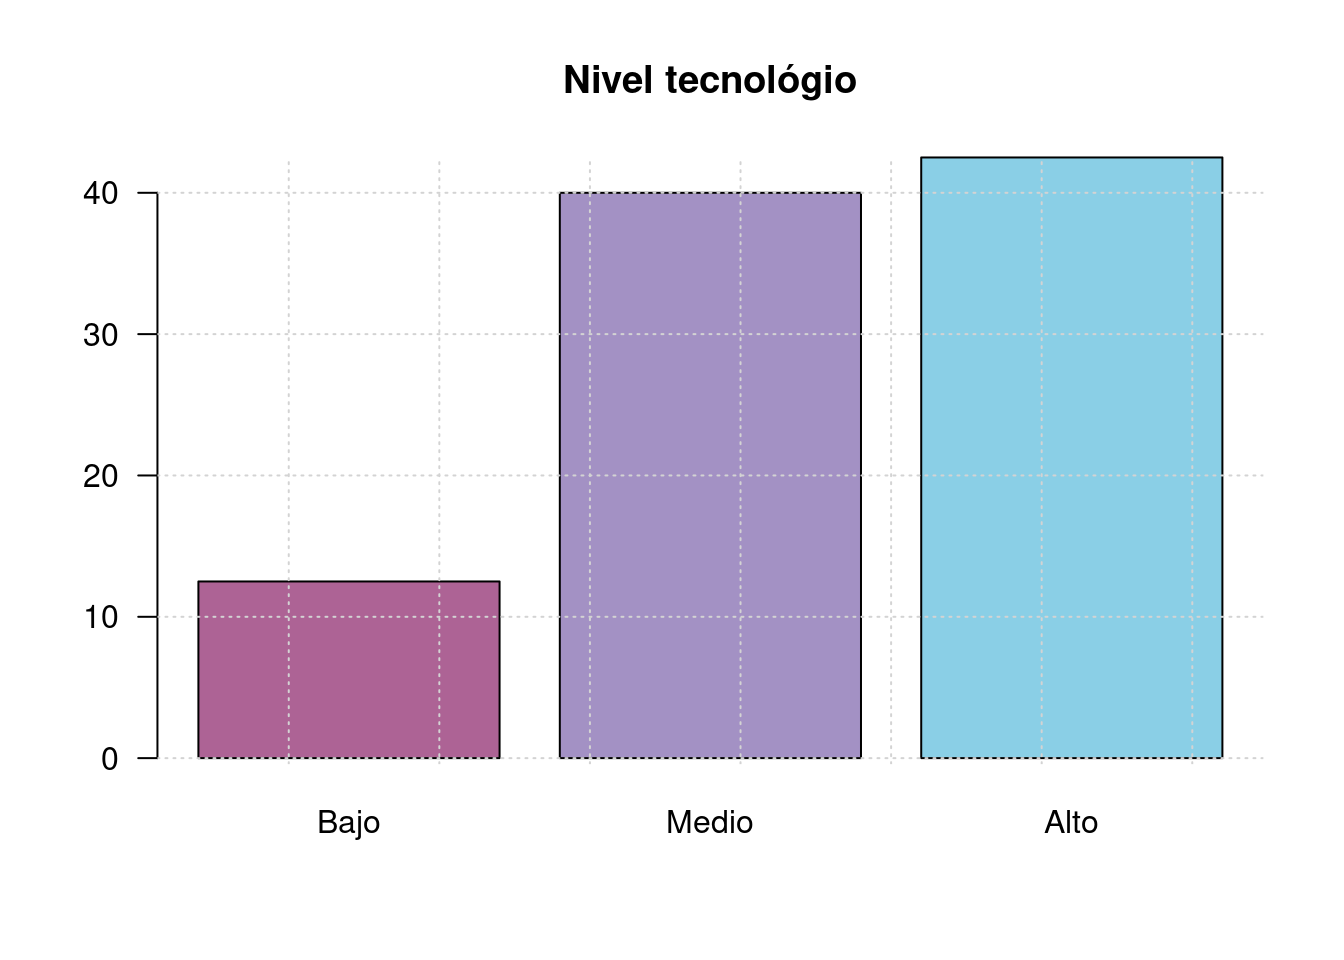
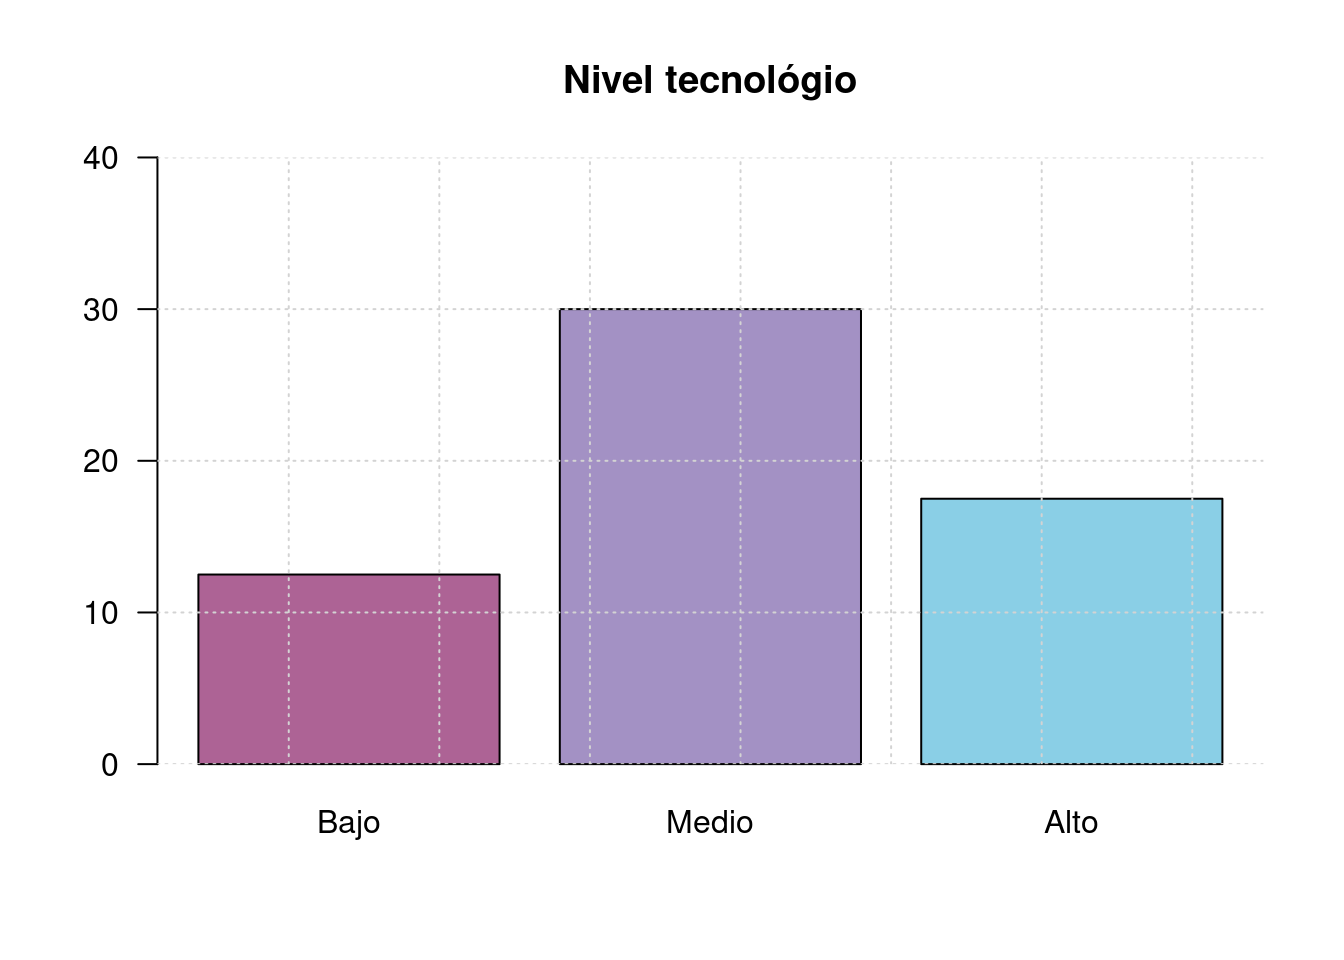
ajustes monitoria1.Rmd

diff --git a/recurso102.html b/recurso102.html
@@ -629,8 +629,8 @@ gráficos que nos permitan un fácil análisis de ellos</p>
 las selecciones de futbol asociadas a 6 confederaciones.</p>
 <pre class="r"><code>library(DT)
 DT::datatable(head(futbol, 218),fillContainer = FALSE, options = list(pageLength = 8))</code></pre>
-<div id="htmlwidget-67cdbe48f291db4b5845" style="width:100%;height:auto;" class="datatables html-widget"></div>
-<script type="application/json" data-for="htmlwidget-67cdbe48f291db4b5845">{"x":{"filter":"none","vertical":false,"fillContainer":false,"data":[["1","2","3","4","5","6","7","8","9","10","11","12","13","14","15","16","17","18","19","20","21","22","23","24","25","26","27","28","29","30","31","32","33","34","35","36","37","38","39","40","41","42","43","44","45","46","47","48","49","50","51","52","53","54","55","56","57","58","59","60","61","62","63","64","65","66","67","68","69","70","71","72","73","74","75","76","77","78","79","80","81","82","83","84","85","86","87","88","89","90","91","92","93","94","95","96","97","98","99","100","101","102","103","104","105","106","107","108","109","110","111","112","113","114","115","116","117","118","119","120","121","122","123","124","125","126","127","128","129","130","131","132","133","134","135","136","137","138","139","140","141","142","143","144","145","146","147","148","149","150","151","152","153","154","155","156","157","158","159","160","161","162","163","164","165","166","167","168","169","170","171","172","173","174","175","176","177","178","179","180","181","182","183","184","185","186","187","188","189","190","191","192","193","194","195","196","197","198","199","200","201","202","203","204","205","206","207","208","209","210","211","212","213","214","215","216","217","218"],[1,2,3,4,5,6,7,8,9,10,11,12,13,14,15,16,17,18,19,20,21,22,23,24,25,26,27,28,29,30,31,32,33,34,35,36,37,38,39,40,41,42,43,44,45,46,47,48,49,50,51,52,53,54,55,56,57,58,59,60,61,62,63,64,65,66,67,68,69,70,71,72,73,74,75,76,77,78,79,80,81,82,83,84,85,86,87,88,89,90,91,92,93,94,95,96,97,98,99,100,101,102,103,104,105,106,107,108,109,110,111,112,113,114,115,116,117,118,119,120,121,122,123,124,125,126,127,128,129,130,131,132,133,134,135,136,137,138,139,140,141,142,143,144,145,146,147,148,149,150,151,152,153,154,155,156,157,158,159,160,161,162,163,164,165,166,167,168,169,170,171,172,173,174,175,176,177,178,179,180,181,182,183,184,185,186,187,188,189,190,191,192,193,194,195,196,197,198,199,200,201,202,203,204,205,206,207,208,209,210,211,212,213,214,215,216,217,218],["Spain","Brazil","Belgium","France","England","Argentina","Portugal","Netherlands","Germany","Italy","Switzerland","Uruguay","Colombia","Denmark","Mexico","Chile","Croatia","Austria","Ecuador","Serbia","USA","Russia","Sweden","Poland","Czech Republic","Algeria","Venezuela","Peru","Iran","Morocco","Paraguay","Senegal","Japan","Wales","Norway","Turkey","Australia","Ghana","Romania","Ukraine","Greece","Tunisia","Ivory Coast","South Korea","Bosnia and Herzegovina","Egypt","Qatar","Hungary","Canada","Scotland","Israel","Basque Country","Slovenia","Uganda","Mali","Nigeria","Finland","Iraq","Costa Rica","Zimbabwe","Burkina Faso","Northern Ireland","Iceland","Rep of Ireland","Slovakia","Honduras","Bolivia","Uzbekistan","Saudi Arabia","Panama","Cameroon","Georgia","Albania","Haiti","Bahrain","Montenegro","China PR","Belarus","FYR Macedonia","Benin","Kosovo","Zambia","Bulgaria","Guinea","Namibia","Congo","South Africa","Jamaica","Gabon","Congo DR","Libya","Armenia","Togo","Tanzania","Guatemala","Kenya","New Zealand","Angola","Jordan","Cape Verde Islands","Madagascar","Curacao","El Salvador","Oman","Equatorial Guinea","Gambia","Malawi","Botswana","Luxembourg","Mozambique","Syria","Liberia","Kuwait","Sudan","Mauritania","United Arab Emirates","Trinidad and Tobago","Niger","Azerbaijan","Cuba","Kazakhstan","Rwanda","Lithuania","Cyprus","Estonia","Burundi","Sierra Leone","Bermuda","St. Kitts and Nevis","Lesotho","Comoros","Lebanon","Ethiopia","Guinea-Bissau","Vietnam","Nicaragua","Latvia","Dominican Republic","Palestine","Thailand","Central African Republic","North Korea","Moldova","Kyrgyzstan","Faroe Islands","Turkmenistan","Chad","Fiji","Martinique","Guyana","Belize","Suriname","Antigua and Barbuda","South Sudan","Solomon Islands","Zanzibar","Puerto Rico","New Caledonia","Malaysia","Malta","Barbados","Dominica","Swaziland","Eritrea","Tahiti","Philippines","India","Tajikistan","Singapore","Sao Tome and Principe","St. Vincent and the Grenadines","Hong Kong","Grenada","Vanuatu","Mauritius","St. Lucia","Yemen","Liechtenstein","Gibraltar","Afghanistan","Aruba","Djibouti","Indonesia","Myanmar","Andorra","Montserrat","Cayman Islands","Papua New Guinea","Somalia","Bahamas","Seychelles","Maldives","Bangladesh","French Guiana","Nepal","Mongolia","Chinese Taipei","San Marino","British Virgin Islands","Bonaire","Cambodia","Turks and Caicos Islands","Guam","Guadeloupe","Anguilla","Brunei","US Virgin Islands","Sri Lanka","Pakistan","Laos","Bhutan","St. Martin","Sint Maarten","Tuvalu","Timor-Leste","Macau","Samoa","Tonga"],["UEFA","CONMEBOL","UEFA","UEFA","UEFA","CONMEBOL","UEFA","UEFA","UEFA","UEFA","UEFA","CONMEBOL","CONMEBOL","UEFA","CONCACAF","CONMEBOL","UEFA","UEFA","CONMEBOL","UEFA","CONCACAF","UEFA","UEFA","UEFA","UEFA","CAF","CONMEBOL","CONMEBOL","AFC","CAF","CONMEBOL","CAF","AFC","UEFA","UEFA","UEFA","AFC","CAF","UEFA","UEFA","UEFA","CAF","CAF","AFC","UEFA","CAF","AFC","UEFA","CONCACAF","UEFA","UEFA","UEFA","UEFA","CAF","CAF","CAF","UEFA","AFC","CONCACAF","CAF","CAF","UEFA","UEFA","UEFA","UEFA","CONCACAF","CONMEBOL","AFC","AFC","CONCACAF","CAF","UEFA","UEFA","CONCACAF","AFC","UEFA","AFC","UEFA","UEFA","CAF","UEFA","CAF","UEFA","CAF","CAF","CAF","CAF","CONCACAF","CAF","CAF","CAF","UEFA","CAF","CAF","CONCACAF","CAF","OFC","CAF","AFC","CAF","CAF","CONCACAF","CONCACAF","AFC","CAF","CAF","CAF","CAF","UEFA","CAF","AFC","CAF","AFC","CAF","CAF","AFC","CONCACAF","CAF","UEFA","CONCACAF","UEFA","CAF","UEFA","UEFA","UEFA","CAF","CAF","CONCACAF","CONCACAF","CAF","CAF","AFC","CAF","CAF","AFC","CONCACAF","UEFA","CONCACAF","AFC","AFC","CAF","AFC","UEFA","AFC","UEFA","AFC","CAF","OFC","CONCACAF","CONCACAF","CONCACAF","CONCACAF","CONCACAF","CAF","OFC","CAF","CONCACAF","OFC","AFC","UEFA","CONCACAF","CONCACAF","CAF","CAF","OFC","AFC","AFC","AFC","AFC","CAF","CONCACAF","AFC","CONCACAF","OFC","CAF","CONCACAF","AFC","UEFA","UEFA","AFC","CONCACAF","CAF","AFC","AFC","UEFA","CONCACAF","CONCACAF","OFC","CAF","CONCACAF","CAF","AFC","AFC","CONCACAF","AFC","AFC","AFC","UEFA","CONCACAF","CONCACAF","AFC","CONCACAF","AFC","CONCACAF","CONCACAF","AFC","CONCACAF","AFC","AFC","AFC","AFC","CONCACAF","CONCACAF","OFC","AFC","AFC","OFC","OFC"],[3.54,3.04,2.96,2.9,2.7,2.54,2.7,2.69,3.04,2.52,2.52,2.36,2.17,2.12,2.34,2.22,2.42,2.11,2.24,2.08,2.04,2.18,1.97,1.92,1.96,2.03,1.87,1.89,1.78,2.04,1.8,1.65,1.86,1.65,1.99,1.88,1.92,1.54,1.88,1.67,1.5,1.56,1.62,1.51,1.74,1.55,1.75,1.54,1.82,1.46,1.72,1.63,1.4,1.58,1.26,1.77,1.61,1.39,1.49,1.6,1.38,1.37,1.52,1.26,1.53,1.56,1.57,1.47,1.56,1.3,1.19,1.27,1.32,1.47,1.24,1.23,1.2,1.34,1.3,1.14,1.33,1.46,1.2,1.27,0.96,1.13,1.35,1.32,1.16,1.28,1.24,1.48,1.32,1.21,1.25,1.11,1.26,1.07,0.93,1.04,1.3,1.29,1.05,1.08,1.06,1.18,0.66,0.77,1.12,1.12,1.36,1.05,1.05,0.96,1,1.04,1.09,1.05,0.82,0.89,0.98,0.69,1.03,1.01,0.88,0.88,1.08,1.19,1.15,0.79,1,0.62,0.84,0.9,0.68,0.88,0.92,1.01,0.78,0.9,1.03,0.87,0.76,0.85,0.86,0.87,0.85,0.67,0.94,1.13,0.79,0.76,1.09,0.73,0.69,0.49,0.73,0.69,0.76,0.7,0.54,0.55,0.56,0.79,0.81,0.72,0.54,0.71,0.65,0.79,0.7,0.34,0.68,0.64,0.7,0.64,0.51,0.6,0.49,0.53,0.64,0.64,0.62,0.57,0.28,0.81,0.4,0.6,0.55,0.73,0.41,0.41,0.26,0.52,0.21,0.25,0.45,0.24,0.42,0.37,0.28,0.68,0.51,0.2,0.35,0.21,0.38,0.2,0.2,0.21,0.22,0.23,0.21,0.38,0.33,0.2,0.2,0.2],[0.39,0.32,0.58,0.55,0.45,0.42,0.52,0.53,0.73,0.44,0.62,0.56,0.54,0.58,0.73,0.72,0.86,0.69,0.79,0.77,0.74,0.85,0.74,0.72,0.76,0.81,0.74,0.77,0.7,0.92,0.73,0.62,0.78,0.64,0.91,0.86,0.9,0.66,1,0.82,0.7,0.78,0.85,0.8,1.01,0.88,1.09,0.91,1.16,0.84,1.08,1,0.82,0.98,0.69,1.15,1.03,0.84,0.93,1.06,0.89,0.92,1.06,0.82,1.14,1.2,1.22,1.13,1.24,1,0.89,1,1.06,1.23,1,1.04,1.02,1.16,1.13,0.97,1.2,1.34,1.07,1.15,0.82,1,1.24,1.21,1.04,1.18,1.17,1.49,1.32,1.2,1.27,1.12,1.3,1.14,0.99,1.15,1.44,1.47,1.2,1.24,1.26,1.41,0.85,0.99,1.44,1.45,1.74,1.37,1.37,1.29,1.34,1.43,1.5,1.47,1.22,1.31,1.44,1.06,1.53,1.51,1.35,1.37,1.65,1.82,1.76,1.3,1.6,1.09,1.4,1.49,1.19,1.5,1.59,1.73,1.42,1.59,1.79,1.59,1.45,1.62,1.65,1.73,1.71,1.45,1.85,2.22,1.73,1.71,2.2,1.74,1.71,1.47,1.89,1.85,1.98,1.88,1.61,1.65,1.67,2.1,2.15,2.02,1.82,2.13,2.05,2.38,2.23,1.57,2.22,2.17,2.31,2.24,2.09,2.27,2.08,2.46,2.76,2.85,2.83,2.71,2.09,3.24,2.41,2.88,2.8,3.44,2.8,2.81,2.48,3.18,2.47,2.72,3.48,2.9,3.62,3.59,3.35,4.76,4.42,3.49,4.08,3.71,4.38,3.81,3.92,4.11,4.62,4.89,4.93,5.62,5.56,5.11,5.78,6.08],[93.99,92.22,87.71,87.64,87.44,86.59,86.2,86.07,86.05,86.04,82.57,81.8,79.63,78.1,77.92,76.47,76.37,75.41,75.28,73.37,73.19,73.07,72.21,71.67,71.49,71.42,70.38,69.91,69.77,69.26,69.26,69.2,69.17,68.73,68.56,67.81,67.34,66.08,64.55,64.53,64.12,63.55,62.71,61.9,61.29,60.6,59.93,59.84,59.71,59.71,59.39,59.32,58.87,58.85,58.82,58.73,58.39,58.09,58.04,57.58,56.74,55.7,55.68,55.62,54.08,53.21,53.13,52.97,52.47,52.02,51.99,51.42,51.04,50.56,50.49,49.31,49.21,49.19,48.8,48.62,48.1,48.09,48,48,47.83,47.82,47.7,47.69,47.6,47.34,46.61,45.34,45.31,45.28,44.7,44.4,44.18,42.82,42.64,42.17,42.16,41.53,41.27,41.19,40.12,40.04,38.22,38.1,38.03,37.79,37.65,37.46,37.45,36.91,36.91,36.24,35.92,35.69,34.73,34.58,34.35,34.3,34.08,33.86,33.74,33.29,32.95,32.69,32.67,32.21,32.05,31.7,31.68,31.61,31.55,30.87,30.44,30.13,29.82,29.77,29.55,28.99,28.87,28.08,27.7,26.68,26.54,26.35,26.34,25.06,24.84,24.52,24.48,23.16,22.71,21.39,21.11,20.92,20.71,20.58,20.53,20.29,20.28,19.77,19.56,19.31,17.9,17.67,17.47,16.48,16.4,16.04,16.04,15.99,15.5,15.12,14.29,14.03,13.79,11.07,10.68,10.03,9.93,9.91,9.71,9.65,9.43,9.16,8.97,7.5,7.04,7.01,6.73,6.57,6.12,5.41,4.58,4.55,3.88,3.5,3.44,2.75,2.48,2.47,2.29,2.13,1.93,1.87,1.71,1.48,0.98,0.81,0.74,0.7,0.64,0.6,0.34,0.26]],"container":"<table class=\"display\">\n  <thead>\n    <tr>\n      <th> <\/th>\n      <th>rank<\/th>\n      <th>name<\/th>\n      <th>confed<\/th>\n      <th>off<\/th>\n      <th>def<\/th>\n      <th>spi<\/th>\n    <\/tr>\n  <\/thead>\n<\/table>","options":{"pageLength":8,"columnDefs":[{"className":"dt-right","targets":[1,4,5,6]},{"orderable":false,"targets":0}],"order":[],"autoWidth":false,"orderClasses":false,"lengthMenu":[8,10,25,50,100]}},"evals":[],"jsHooks":[]}</script>
+<div id="htmlwidget-44ca66789992b2ba7eff" style="width:100%;height:auto;" class="datatables html-widget"></div>
+<script type="application/json" data-for="htmlwidget-44ca66789992b2ba7eff">{"x":{"filter":"none","vertical":false,"fillContainer":false,"data":[["1","2","3","4","5","6","7","8","9","10","11","12","13","14","15","16","17","18","19","20","21","22","23","24","25","26","27","28","29","30","31","32","33","34","35","36","37","38","39","40","41","42","43","44","45","46","47","48","49","50","51","52","53","54","55","56","57","58","59","60","61","62","63","64","65","66","67","68","69","70","71","72","73","74","75","76","77","78","79","80","81","82","83","84","85","86","87","88","89","90","91","92","93","94","95","96","97","98","99","100","101","102","103","104","105","106","107","108","109","110","111","112","113","114","115","116","117","118","119","120","121","122","123","124","125","126","127","128","129","130","131","132","133","134","135","136","137","138","139","140","141","142","143","144","145","146","147","148","149","150","151","152","153","154","155","156","157","158","159","160","161","162","163","164","165","166","167","168","169","170","171","172","173","174","175","176","177","178","179","180","181","182","183","184","185","186","187","188","189","190","191","192","193","194","195","196","197","198","199","200","201","202","203","204","205","206","207","208","209","210","211","212","213","214","215","216","217","218"],[1,2,3,4,5,6,7,8,9,10,11,12,13,14,15,16,17,18,19,20,21,22,23,24,25,26,27,28,29,30,31,32,33,34,35,36,37,38,39,40,41,42,43,44,45,46,47,48,49,50,51,52,53,54,55,56,57,58,59,60,61,62,63,64,65,66,67,68,69,70,71,72,73,74,75,76,77,78,79,80,81,82,83,84,85,86,87,88,89,90,91,92,93,94,95,96,97,98,99,100,101,102,103,104,105,106,107,108,109,110,111,112,113,114,115,116,117,118,119,120,121,122,123,124,125,126,127,128,129,130,131,132,133,134,135,136,137,138,139,140,141,142,143,144,145,146,147,148,149,150,151,152,153,154,155,156,157,158,159,160,161,162,163,164,165,166,167,168,169,170,171,172,173,174,175,176,177,178,179,180,181,182,183,184,185,186,187,188,189,190,191,192,193,194,195,196,197,198,199,200,201,202,203,204,205,206,207,208,209,210,211,212,213,214,215,216,217,218],["Spain","Brazil","Belgium","France","England","Argentina","Portugal","Netherlands","Germany","Italy","Switzerland","Uruguay","Colombia","Denmark","Mexico","Chile","Croatia","Austria","Ecuador","Serbia","USA","Russia","Sweden","Poland","Czech Republic","Algeria","Venezuela","Peru","Iran","Morocco","Paraguay","Senegal","Japan","Wales","Norway","Turkey","Australia","Ghana","Romania","Ukraine","Greece","Tunisia","Ivory Coast","South Korea","Bosnia and Herzegovina","Egypt","Qatar","Hungary","Canada","Scotland","Israel","Basque Country","Slovenia","Uganda","Mali","Nigeria","Finland","Iraq","Costa Rica","Zimbabwe","Burkina Faso","Northern Ireland","Iceland","Rep of Ireland","Slovakia","Honduras","Bolivia","Uzbekistan","Saudi Arabia","Panama","Cameroon","Georgia","Albania","Haiti","Bahrain","Montenegro","China PR","Belarus","FYR Macedonia","Benin","Kosovo","Zambia","Bulgaria","Guinea","Namibia","Congo","South Africa","Jamaica","Gabon","Congo DR","Libya","Armenia","Togo","Tanzania","Guatemala","Kenya","New Zealand","Angola","Jordan","Cape Verde Islands","Madagascar","Curacao","El Salvador","Oman","Equatorial Guinea","Gambia","Malawi","Botswana","Luxembourg","Mozambique","Syria","Liberia","Kuwait","Sudan","Mauritania","United Arab Emirates","Trinidad and Tobago","Niger","Azerbaijan","Cuba","Kazakhstan","Rwanda","Lithuania","Cyprus","Estonia","Burundi","Sierra Leone","Bermuda","St. Kitts and Nevis","Lesotho","Comoros","Lebanon","Ethiopia","Guinea-Bissau","Vietnam","Nicaragua","Latvia","Dominican Republic","Palestine","Thailand","Central African Republic","North Korea","Moldova","Kyrgyzstan","Faroe Islands","Turkmenistan","Chad","Fiji","Martinique","Guyana","Belize","Suriname","Antigua and Barbuda","South Sudan","Solomon Islands","Zanzibar","Puerto Rico","New Caledonia","Malaysia","Malta","Barbados","Dominica","Swaziland","Eritrea","Tahiti","Philippines","India","Tajikistan","Singapore","Sao Tome and Principe","St. Vincent and the Grenadines","Hong Kong","Grenada","Vanuatu","Mauritius","St. Lucia","Yemen","Liechtenstein","Gibraltar","Afghanistan","Aruba","Djibouti","Indonesia","Myanmar","Andorra","Montserrat","Cayman Islands","Papua New Guinea","Somalia","Bahamas","Seychelles","Maldives","Bangladesh","French Guiana","Nepal","Mongolia","Chinese Taipei","San Marino","British Virgin Islands","Bonaire","Cambodia","Turks and Caicos Islands","Guam","Guadeloupe","Anguilla","Brunei","US Virgin Islands","Sri Lanka","Pakistan","Laos","Bhutan","St. Martin","Sint Maarten","Tuvalu","Timor-Leste","Macau","Samoa","Tonga"],["UEFA","CONMEBOL","UEFA","UEFA","UEFA","CONMEBOL","UEFA","UEFA","UEFA","UEFA","UEFA","CONMEBOL","CONMEBOL","UEFA","CONCACAF","CONMEBOL","UEFA","UEFA","CONMEBOL","UEFA","CONCACAF","UEFA","UEFA","UEFA","UEFA","CAF","CONMEBOL","CONMEBOL","AFC","CAF","CONMEBOL","CAF","AFC","UEFA","UEFA","UEFA","AFC","CAF","UEFA","UEFA","UEFA","CAF","CAF","AFC","UEFA","CAF","AFC","UEFA","CONCACAF","UEFA","UEFA","UEFA","UEFA","CAF","CAF","CAF","UEFA","AFC","CONCACAF","CAF","CAF","UEFA","UEFA","UEFA","UEFA","CONCACAF","CONMEBOL","AFC","AFC","CONCACAF","CAF","UEFA","UEFA","CONCACAF","AFC","UEFA","AFC","UEFA","UEFA","CAF","UEFA","CAF","UEFA","CAF","CAF","CAF","CAF","CONCACAF","CAF","CAF","CAF","UEFA","CAF","CAF","CONCACAF","CAF","OFC","CAF","AFC","CAF","CAF","CONCACAF","CONCACAF","AFC","CAF","CAF","CAF","CAF","UEFA","CAF","AFC","CAF","AFC","CAF","CAF","AFC","CONCACAF","CAF","UEFA","CONCACAF","UEFA","CAF","UEFA","UEFA","UEFA","CAF","CAF","CONCACAF","CONCACAF","CAF","CAF","AFC","CAF","CAF","AFC","CONCACAF","UEFA","CONCACAF","AFC","AFC","CAF","AFC","UEFA","AFC","UEFA","AFC","CAF","OFC","CONCACAF","CONCACAF","CONCACAF","CONCACAF","CONCACAF","CAF","OFC","CAF","CONCACAF","OFC","AFC","UEFA","CONCACAF","CONCACAF","CAF","CAF","OFC","AFC","AFC","AFC","AFC","CAF","CONCACAF","AFC","CONCACAF","OFC","CAF","CONCACAF","AFC","UEFA","UEFA","AFC","CONCACAF","CAF","AFC","AFC","UEFA","CONCACAF","CONCACAF","OFC","CAF","CONCACAF","CAF","AFC","AFC","CONCACAF","AFC","AFC","AFC","UEFA","CONCACAF","CONCACAF","AFC","CONCACAF","AFC","CONCACAF","CONCACAF","AFC","CONCACAF","AFC","AFC","AFC","AFC","CONCACAF","CONCACAF","OFC","AFC","AFC","OFC","OFC"],[3.54,3.04,2.96,2.9,2.7,2.54,2.7,2.69,3.04,2.52,2.52,2.36,2.17,2.12,2.34,2.22,2.42,2.11,2.24,2.08,2.04,2.18,1.97,1.92,1.96,2.03,1.87,1.89,1.78,2.04,1.8,1.65,1.86,1.65,1.99,1.88,1.92,1.54,1.88,1.67,1.5,1.56,1.62,1.51,1.74,1.55,1.75,1.54,1.82,1.46,1.72,1.63,1.4,1.58,1.26,1.77,1.61,1.39,1.49,1.6,1.38,1.37,1.52,1.26,1.53,1.56,1.57,1.47,1.56,1.3,1.19,1.27,1.32,1.47,1.24,1.23,1.2,1.34,1.3,1.14,1.33,1.46,1.2,1.27,0.96,1.13,1.35,1.32,1.16,1.28,1.24,1.48,1.32,1.21,1.25,1.11,1.26,1.07,0.93,1.04,1.3,1.29,1.05,1.08,1.06,1.18,0.66,0.77,1.12,1.12,1.36,1.05,1.05,0.96,1,1.04,1.09,1.05,0.82,0.89,0.98,0.69,1.03,1.01,0.88,0.88,1.08,1.19,1.15,0.79,1,0.62,0.84,0.9,0.68,0.88,0.92,1.01,0.78,0.9,1.03,0.87,0.76,0.85,0.86,0.87,0.85,0.67,0.94,1.13,0.79,0.76,1.09,0.73,0.69,0.49,0.73,0.69,0.76,0.7,0.54,0.55,0.56,0.79,0.81,0.72,0.54,0.71,0.65,0.79,0.7,0.34,0.68,0.64,0.7,0.64,0.51,0.6,0.49,0.53,0.64,0.64,0.62,0.57,0.28,0.81,0.4,0.6,0.55,0.73,0.41,0.41,0.26,0.52,0.21,0.25,0.45,0.24,0.42,0.37,0.28,0.68,0.51,0.2,0.35,0.21,0.38,0.2,0.2,0.21,0.22,0.23,0.21,0.38,0.33,0.2,0.2,0.2],[0.39,0.32,0.58,0.55,0.45,0.42,0.52,0.53,0.73,0.44,0.62,0.56,0.54,0.58,0.73,0.72,0.86,0.69,0.79,0.77,0.74,0.85,0.74,0.72,0.76,0.81,0.74,0.77,0.7,0.92,0.73,0.62,0.78,0.64,0.91,0.86,0.9,0.66,1,0.82,0.7,0.78,0.85,0.8,1.01,0.88,1.09,0.91,1.16,0.84,1.08,1,0.82,0.98,0.69,1.15,1.03,0.84,0.93,1.06,0.89,0.92,1.06,0.82,1.14,1.2,1.22,1.13,1.24,1,0.89,1,1.06,1.23,1,1.04,1.02,1.16,1.13,0.97,1.2,1.34,1.07,1.15,0.82,1,1.24,1.21,1.04,1.18,1.17,1.49,1.32,1.2,1.27,1.12,1.3,1.14,0.99,1.15,1.44,1.47,1.2,1.24,1.26,1.41,0.85,0.99,1.44,1.45,1.74,1.37,1.37,1.29,1.34,1.43,1.5,1.47,1.22,1.31,1.44,1.06,1.53,1.51,1.35,1.37,1.65,1.82,1.76,1.3,1.6,1.09,1.4,1.49,1.19,1.5,1.59,1.73,1.42,1.59,1.79,1.59,1.45,1.62,1.65,1.73,1.71,1.45,1.85,2.22,1.73,1.71,2.2,1.74,1.71,1.47,1.89,1.85,1.98,1.88,1.61,1.65,1.67,2.1,2.15,2.02,1.82,2.13,2.05,2.38,2.23,1.57,2.22,2.17,2.31,2.24,2.09,2.27,2.08,2.46,2.76,2.85,2.83,2.71,2.09,3.24,2.41,2.88,2.8,3.44,2.8,2.81,2.48,3.18,2.47,2.72,3.48,2.9,3.62,3.59,3.35,4.76,4.42,3.49,4.08,3.71,4.38,3.81,3.92,4.11,4.62,4.89,4.93,5.62,5.56,5.11,5.78,6.08],[93.99,92.22,87.71,87.64,87.44,86.59,86.2,86.07,86.05,86.04,82.57,81.8,79.63,78.1,77.92,76.47,76.37,75.41,75.28,73.37,73.19,73.07,72.21,71.67,71.49,71.42,70.38,69.91,69.77,69.26,69.26,69.2,69.17,68.73,68.56,67.81,67.34,66.08,64.55,64.53,64.12,63.55,62.71,61.9,61.29,60.6,59.93,59.84,59.71,59.71,59.39,59.32,58.87,58.85,58.82,58.73,58.39,58.09,58.04,57.58,56.74,55.7,55.68,55.62,54.08,53.21,53.13,52.97,52.47,52.02,51.99,51.42,51.04,50.56,50.49,49.31,49.21,49.19,48.8,48.62,48.1,48.09,48,48,47.83,47.82,47.7,47.69,47.6,47.34,46.61,45.34,45.31,45.28,44.7,44.4,44.18,42.82,42.64,42.17,42.16,41.53,41.27,41.19,40.12,40.04,38.22,38.1,38.03,37.79,37.65,37.46,37.45,36.91,36.91,36.24,35.92,35.69,34.73,34.58,34.35,34.3,34.08,33.86,33.74,33.29,32.95,32.69,32.67,32.21,32.05,31.7,31.68,31.61,31.55,30.87,30.44,30.13,29.82,29.77,29.55,28.99,28.87,28.08,27.7,26.68,26.54,26.35,26.34,25.06,24.84,24.52,24.48,23.16,22.71,21.39,21.11,20.92,20.71,20.58,20.53,20.29,20.28,19.77,19.56,19.31,17.9,17.67,17.47,16.48,16.4,16.04,16.04,15.99,15.5,15.12,14.29,14.03,13.79,11.07,10.68,10.03,9.93,9.91,9.71,9.65,9.43,9.16,8.97,7.5,7.04,7.01,6.73,6.57,6.12,5.41,4.58,4.55,3.88,3.5,3.44,2.75,2.48,2.47,2.29,2.13,1.93,1.87,1.71,1.48,0.98,0.81,0.74,0.7,0.64,0.6,0.34,0.26]],"container":"<table class=\"display\">\n  <thead>\n    <tr>\n      <th> <\/th>\n      <th>rank<\/th>\n      <th>name<\/th>\n      <th>confed<\/th>\n      <th>off<\/th>\n      <th>def<\/th>\n      <th>spi<\/th>\n    <\/tr>\n  <\/thead>\n<\/table>","options":{"pageLength":8,"columnDefs":[{"className":"dt-right","targets":[1,4,5,6]},{"orderable":false,"targets":0}],"order":[],"autoWidth":false,"orderClasses":false,"lengthMenu":[8,10,25,50,100]}},"evals":[],"jsHooks":[]}</script>
 <p>portal FiveThirtyEight : <a href="https://data.fivethirtyeight.com/"
 class="uri">https://data.fivethirtyeight.com/</a></p>
 <p><br/> <br/> <br/></p>

diff --git a/monitoria1.html b/monitoria1.html
@@ -908,16 +908,35 @@ meses para una muestra de 60 nuevos microempresarios en la región. Dos
 de las variables más importantes a tener en cuenta para el estudio
 fueron: Ventas (meses Mayo y Junio) y el nivel tecnológico de la
 empresa. La siguiente información corresponde a las ventas:</p>
-<pre class="r"><code>Mayo: 14.3, 14.4, 11.1, 11.2, 11.4, 11.4, 11.4, 11.4, 10.0, 10.5, 
-      10.5, 10.6, 10.7, 12.1, 12.3, 12.4, 12.8,  9.3,  9.2,  9.2, 
-       9.1,  8.4,  8.5,  7.2,  7.1,  6.2, 13.7, 13.8, 15.0  10.0
+<p><br/></p>
+<pre class="r"><code>Mayo=c(14.3, 14.4, 11.1, 11.2, 11.4, 11.4, 11.4, 11.4, 10.0, 10.5, 10.5, 10.6, 10.7, 12.1, 12.3, 12.4, 12.8,  9.3,  9.2,  9.2, 9.1,  8.4,  8.5,  7.2,  7.1,  6.2, 13.7, 13.8, 15.0, 10.0)
 
-Junio: 12.0, 12.0, 12.0, 12.7, 12.8, 12.9,  8.0,  8.0, 13.2, 13.3, 
-       13.5, 13.6, 11.0, 11.5, 11.6, 11.9, 10.4, 10.3, 10.7,  9.0, 
-        9.2,  7.4,  7.7,  6.1,  5.9, 14.3, 14.2, 14.8, 15.1, 15.2</code></pre>
+Junio=c(12.0, 12.0, 12.0, 12.7, 12.8, 12.9, 8.0, 8.0, 13.2, 13.3, 13.5, 13.6, 11.0, 11.5, 11.6, 11.9, 10.4, 10.3, 10.7,  9.0, 9.2,  7.4,  7.7,  6.1,  5.9, 14.3, 14.2, 14.8, 15.1, 15.2)</code></pre>
+<p><br/></p>
 <p>El nivel tecnológico de los 60 distribuidores mostró el siguiente
 comportamiento</p>
 <p><img src="monitoria1_files/figure-html/unnamed-chunk-4-1.png" width="672" /></p>
+<p><br/><br/></p>
+<pre><code>Descriptive Statistics  
+
+                     Junio     Mayo
+----------------- -------- --------
+             Mean    11.34    10.84
+          Std.Dev     2.65     2.22
+              Min     5.90     6.20
+               Q1     9.20     9.20
+           Median    11.95    10.90
+               Q3    13.30    12.30
+              Max    15.20    15.00
+              MAD     2.37     2.30
+              IQR     3.80     3.03
+               CV     0.23     0.20
+         Skewness    -0.48    -0.07
+      SE.Skewness     0.43     0.43
+         Kurtosis    -0.87    -0.66
+          N.Valid    30.00    30.00
+        Pct.Valid   100.00   100.00</code></pre>
+<p><br/><br/></p>
 <p>De acuerdo con la información anterior, responda falso o verdadero a
 las siguientes premisas. En caso de ser falsa justifique su
 respuesta.</p>
@@ -934,8 +953,8 @@ razón</td>
 </tr>
 <tr class="even">
 <td align="left">b.</td>
-<td align="left">Las ventas de 6.2 millones representan un dato
-atípico</td>
+<td align="left">Las ventas de 6.2 millones representan un dato atípico,
+para la información de Mayo</td>
 </tr>
 <tr class="odd">
 <td align="left">c.</td>
@@ -964,7 +983,7 @@ el intervalo (8.7 ; 13.3)</td>
 <tr class="even">
 <td align="left">h.</td>
 <td align="left">En la variable nivel tecnológico, el promedio es: <span
-class="math inline">\(\dfrac{12.5+40+42.5}{3}\)</span></td>
+class="math inline">\(\dfrac{12.5+30+17.5}{3}\)</span></td>
 </tr>
 <tr class="odd">
 <td align="left">i.</td>
@@ -983,7 +1002,7 @@ clasifica como nominal</td>
 </tr>
 <tr class="even">
 <td align="left">l.</td>
-<td align="left">40 empresas tienen un nivel tecnológico medio</td>
+<td align="left">30 empresas tienen un nivel tecnológico medio</td>
 </tr>
 <tr class="odd">
 <td align="left">m.</td>
